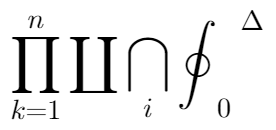
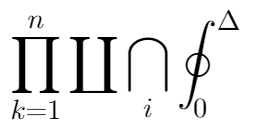
Keep a large operator's box inside its advance
Latin Modern's display integral ends its ink at 953 against an advance of 999, so its 591 unit italic
correction is not ink past the advance, as an italic letter's is. It measures the glyph's lean, which
the OpenType spec reserves for placing limits. Padding the box with it threw the superscript two thirds
of an em clear of the glyph and carried the subscript out with it.

A large operator now takes its advance as its width and keeps the correction only as a measurement, so
the superscript sits at the top of the lean and the subscript steps back under it, which is what the
ordinary script rule already did. Nothing with no italic correction moves.

diff --git a/examples/README.md b/examples/README.md
@@ -19,7 +19,7 @@ Generated by `dotnet run --project tools/RenderExamples -- examples` at 40 point
 | FractionWithRoot | 74×112 | ![FractionWithRoot](FractionWithRoot.png) |
 | FunctionDomainCodomain | 181×57 | ![FunctionDomainCodomain](FunctionDomainCodomain.png) |
 | IntPlusFraction | 109×103 | ![IntPlusFraction](IntPlusFraction.png) |
-| IntegralScripts | 505×121 | ![IntegralScripts](IntegralScripts.png) |
+| IntegralScripts | 363×121 | ![IntegralScripts](IntegralScripts.png) |
 | ItalicScripts | 361×74 | ![ItalicScripts](ItalicScripts.png) |
 | LeftRight | 94×106 | ![LeftRight](LeftRight.png) |
 | LeftRightMinus | 125×106 | ![LeftRightMinus](LeftRightMinus.png) |
@@ -31,7 +31,7 @@ Generated by `dotnet run --project tools/RenderExamples -- examples` at 40 point
 | Phi | 45×57 | ![Phi](Phi.png) |
 | Pi | 44×39 | ![Pi](Pi.png) |
 | QuadraticFormula | 377×122 | ![QuadraticFormula](QuadraticFormula.png) |
-| ShortIntegral | 100×127 | ![ShortIntegral](ShortIntegral.png) |
+| ShortIntegral | 77×127 | ![ShortIntegral](ShortIntegral.png) |
 | SimpleLimit | 193×73 | ![SimpleLimit](SimpleLimit.png) |
 | SummationBigCup | 132×100 | ![SummationBigCup](SummationBigCup.png) |
 | SummationDouble | 143×77 | ![SummationDouble](SummationDouble.png) |
@@ -48,7 +48,7 @@ Generated by `dotnet run --project tools/RenderExamples -- examples` at 40 point
 | TangentPeriodShift | 424×107 | ![TangentPeriodShift](TangentPeriodShift.png) |
 | TwoSin | 96×48 | ![TwoSin](TwoSin.png) |
 | ModeMathAbsolute | 208×60 | ![ModeMathAbsolute](ModeMathAbsolute.png) |
-| ModeMathBigOperators | 276×130 | ![ModeMathBigOperators](ModeMathBigOperators.png) |
+| ModeMathBigOperators | 253×130 | ![ModeMathBigOperators](ModeMathBigOperators.png) |
 | ModeMathBoldVectors | 172×49 | ![ModeMathBoldVectors](ModeMathBoldVectors.png) |
 | ModeMathCubeRoot | 146×63 | ![ModeMathCubeRoot](ModeMathCubeRoot.png) |
 | ModeMathDerivative | 66×104 | ![ModeMathDerivative](ModeMathDerivative.png) |
